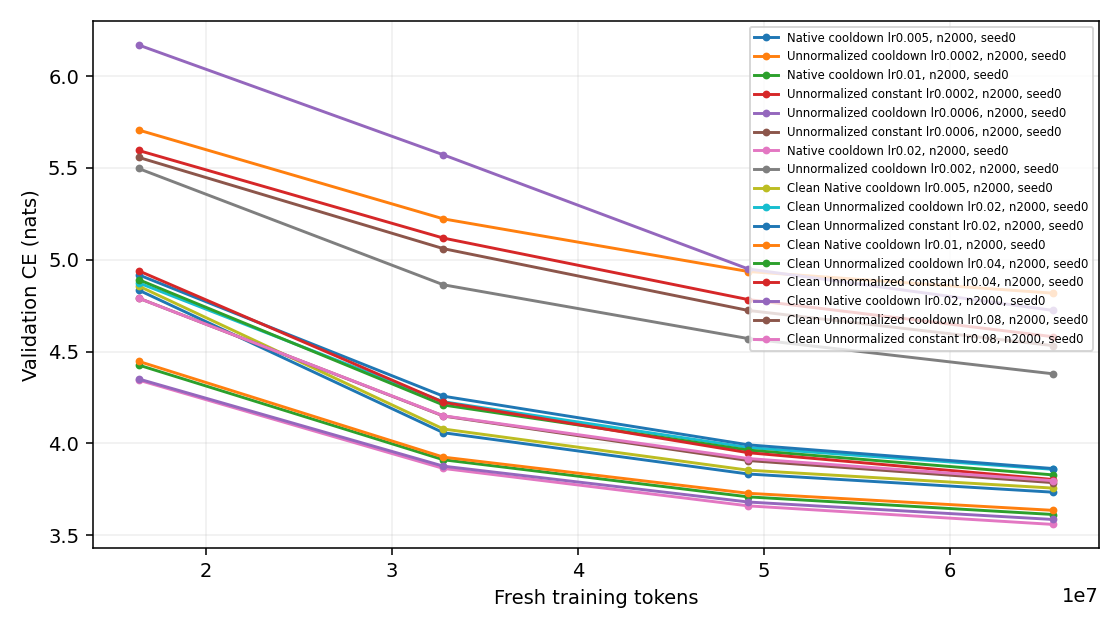
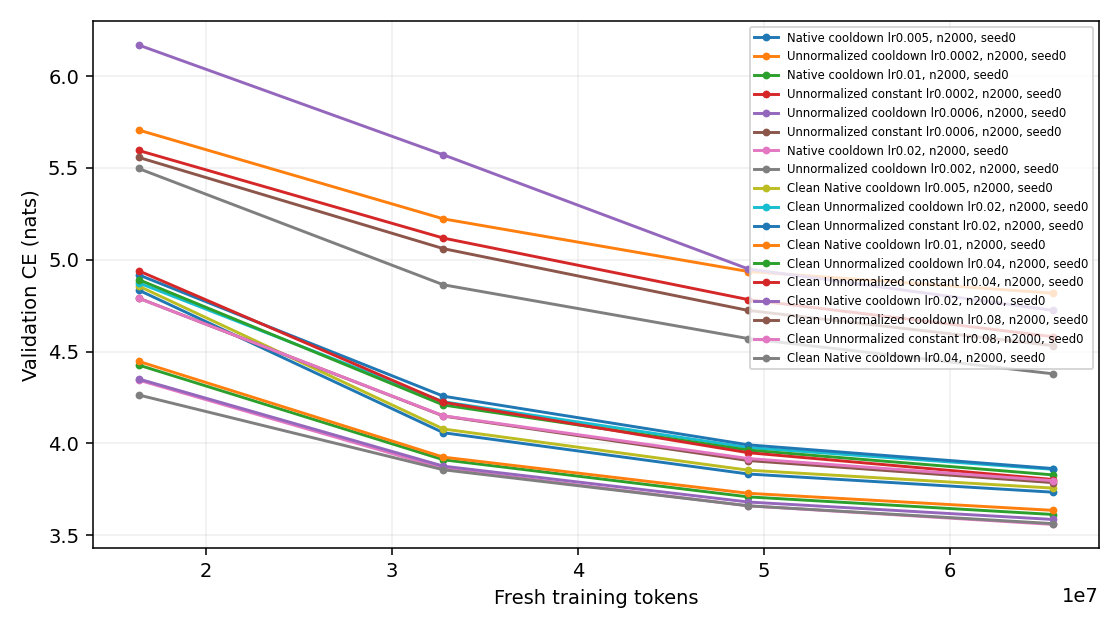
Update live Muon experiment results

diff --git a/research/unnormalized_muon/RESULTS.md b/research/unnormalized_muon/RESULTS.md
@@ -15,6 +15,7 @@ One B300 per job. CE is token cross-entropy (nats); lower is better. Rows with d
 | um-clean-grid-02-0-normalized-lr0p02 | Clean Native cooldown | 2000 | 0 | 0.02 | 3.586015 | 1.087084 | — | 147.46 |
 | um-clean-grid-02-1-cooldown-lr0p08 | Clean Unnormalized cooldown | 2000 | 0 | 0.08 | 3.786540 | 1.147820 | — | 152.80 |
 | um-clean-grid-02-2-constant-lr0p08 | Clean Unnormalized constant | 2000 | 0 | 0.08 | 3.797298 | 1.151089 | — | 148.10 |
+| um-clean-grid-03-0-normalized-lr0p04 | Clean Native cooldown | 2000 | 0 | 0.04 | 3.563474 | 1.080265 | — | 138.61 |
 | um-fw-diagnostic-001 | FW backtracking | 64 | 0 | 0.02 | 6.469995 | 1.960658 | — | 95.07 |
 | um-fw-diagnostic-002 | FW backtracking | 64 | 0 | 0.02 | 6.900428 | 2.091122 | — | 117.14 |
 | um-screen-00-0-native-lr0p005 | Native cooldown | 2000 | 0 | 0.005 | 3.734536 | 1.132046 | — | 145.49 |
@@ -30,7 +31,7 @@ One B300 per job. CE is token cross-entropy (nats); lower is better. Rows with d
 
 Review of um-fw-diagnostic-001: Compiled training f0 compared against functional candidate losses; vanishing-step mismatch2-4e-5 exceeded tolerance, leading to curvature1e186 and45 skipped steps. Replaced by paired functional reference and candidates; retain all645 measured forwards and GPUcost.
 
-Conservative charged/reserved total: 1.8171 / 10 B300 GPU-hours. Includes prior smoke/failed attempts and current maximum-duration reservations. Three-slot central queue; one B300 per run.
+Conservative charged/reserved total: 2.2081 / 10 B300 GPU-hours. Includes prior smoke/failed attempts and current maximum-duration reservations. Three-slot central queue; one B300 per run.
 
 Current CLEAN comparison: no row equilibration, NorMuon, or Muon decay in either arm. Same five Polar Express steps and Frobenius correction; scale by the per-matrix nonnegative FP32 inner product of the native Nesterov input with the NS/Frobenius direction. Shape scaling occurs once outside the scalar. Legacy rows retain production extras and must be compared separately. Constant schedule changes only matrix LR; auxiliary schedules and momentum remain matched.
 
